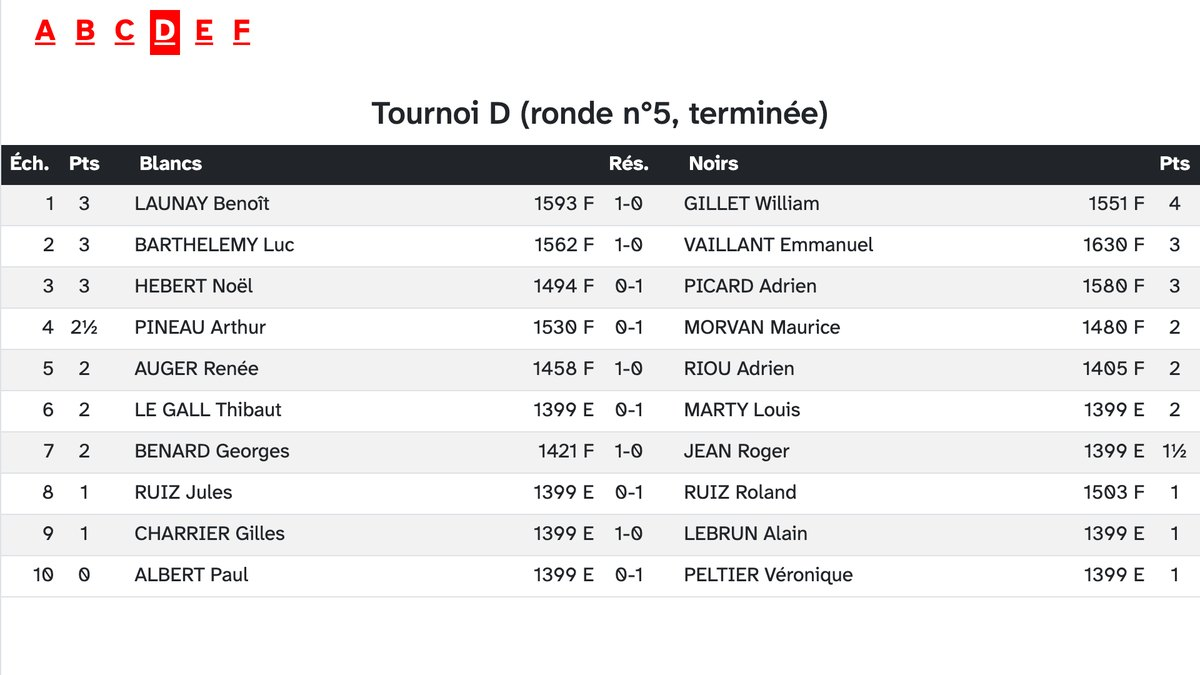
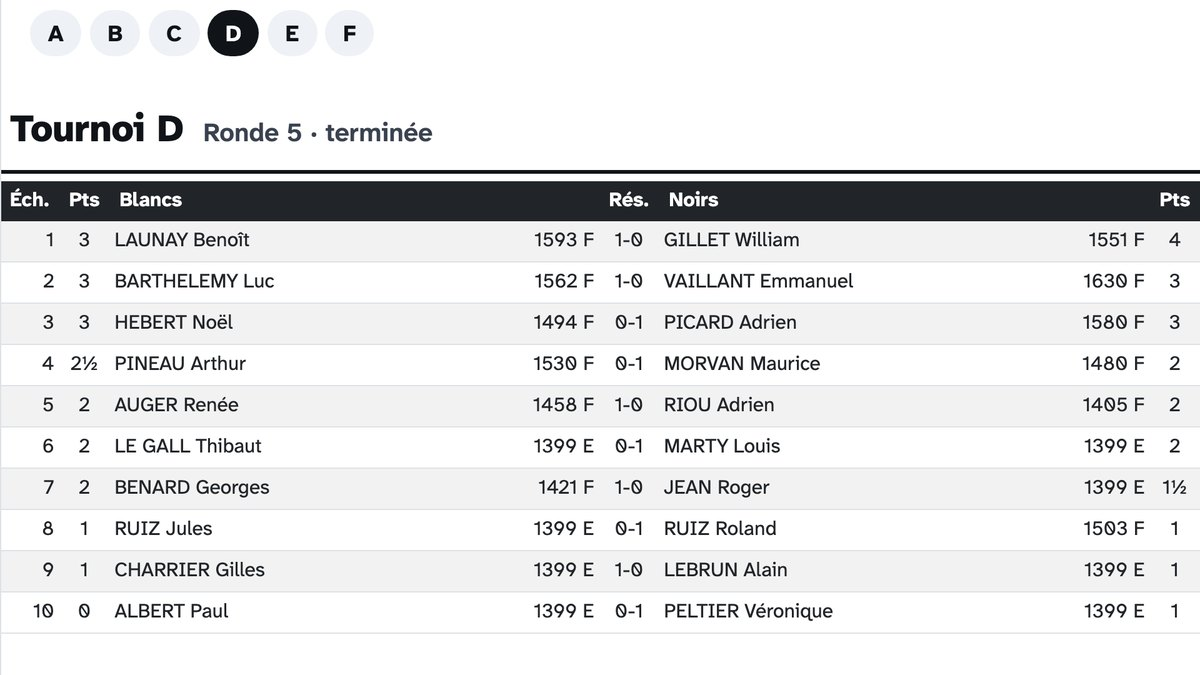
Retake the client screen screenshots and describe the fixed timer colours
The screenshots of the client screens (pairings by board with a menu, pairings by player of two tournaments, the pairings by player multi-screen and the home page's pairings by board) are retaken in the redesigned screens, in English and French: left-aligned set titles with the round on the same line, rounded menu tabs and white or black squares beside the boards.

The timers page explains that a timer is green, then orange, then red, and that only the delays can be changed. The alert message is described as a yellow band that scrolls only when the message is too long to fit.

Retake the client screenshots with the menu tab text centred

The menu tabs of the client screens now centre their text on its capitals, so the screenshots that show them are taken again, in English and French.

diff --git a/docs/screens/timers.fr.md b/docs/screens/timers.fr.md
@@ -17,12 +17,14 @@ Les **Écrans simples** et les **Écrans multiples** prennent en charge l’affi
 
 Pour créer un nouveau chronomètre, rendez-vous sur la page **Chronomètres** et cliquez sur le bouton **Créer un chronomètre**.
 
-Chaque chronomètre comporte **trois phases**, chacune associée à une durée et à une couleur :
+Chaque chronomètre passe par **trois phases**, réglées par trois délais :
 
-- **Couleur #1** (verte par défaut) est affichée jusqu’à atteindre le premier seuil — par défaut _15 minutes_ avant l’heure prévue. À partir de ce moment, le chronomètre passe progressivement vers la **Couleur #2**.
-- **Couleur #2** (orange par défaut) est utilisée pendant la seconde phase — à partir de _5 minutes_ avant l’heure cible — et passe progressivement vers la **Couleur #3**.
-- **Couleur #3** (rouge par défaut) est affichée une fois l’heure prévue atteinte, et reste active pendant _10 minutes_ par défaut.
-  Après ce délai, le chronomètre passe automatiquement à la prochaine heure programmée dans la liste, et revient à la **Couleur #1**.
+- Le chronomètre est **vert** jusqu’au premier délai avant l’heure prévue — par défaut _15 minutes_. À partir de ce moment, il passe progressivement à l’**orange**.
+- Il est **orange** à partir du second délai avant l’heure prévue — par défaut _5 minutes_ — et passe progressivement au **rouge**.
+- Il est **rouge** une fois l’heure prévue atteinte, et le reste pendant le troisième délai — par défaut _10 minutes_.
+  Après ce délai, le chronomètre passe automatiquement à la prochaine heure programmée dans la liste, et redevient vert.
+
+Les couleurs sont les mêmes sur tous les écrans et ne peuvent pas être modifiées. Les délais par défaut de l’évènement se modifient avec le bouton de paramètres de la page **Chronomètres**.
 
 Une fois les paramètres du chronomètre validés, vous pourrez définir un planning avec des dates et heures spécifiques pour déclencher chaque phase.
 

diff --git a/docs/screens/timers.en.md b/docs/screens/timers.en.md
@@ -17,12 +17,14 @@ Single Screens and Multi-Screens support displaying a countdown timer — useful
 
 To create a new timer, go to the **Timers** page and click the **Create a Timer** button.
 
-Each timer includes **three phases**, each with its own delay and color:
+Each timer goes through **three phases**, set by three delays:
 
-- **Color #1** (green by default) is displayed until the first delay threshold is reached — _15 minutes_ by default before the scheduled time. From that point, the timer transitions gradually toward **Color #2**.
-- **Color #2** (orange by default) is then used during the second phase — starting _5 minutes_ by default before the target time — and transitions toward **Color #3**.
-- **Color #3** (red by default) is shown once the target time is reached and remains active for _10 minutes_ by default.
-  After this period, the timer automatically rolls forward to the next scheduled time in the set and reverts to **Color #1**.
+- The timer is **green** until the first delay before the scheduled time — _15 minutes_ by default. From that point, it turns gradually **orange**.
+- It is **orange** from the second delay before the scheduled time — _5 minutes_ by default — and turns gradually **red**.
+- It is **red** once the scheduled time is reached, and stays red for the third delay — _10 minutes_ by default.
+  After this period, the timer automatically rolls forward to the next scheduled time in the set and turns green again.
+
+The colours are the same on every screen and cannot be changed. The default delays of the event can be changed with the settings button of the **Timers** page.
 
 After confirming the timer's parameters, you’ll be able to define a schedule of specific date/time entries to associate with the timer.
 

diff --git a/docs/screens/single-screens.fr.md b/docs/screens/single-screens.fr.md
@@ -38,7 +38,7 @@ C’est particulièrement utile si vous avez légèrement trop de joueur·euses 
 
 ### Message d’alerte
 
-Un message d’alerte défilant peut s’avérer très utile, surtout lorsqu’il est projeté sur grand écran.
+Un message d’alerte, affiché dans un bandeau jaune en bas de l’écran, peut s’avérer très utile, surtout lorsqu’il est projeté sur grand écran. Un message trop long pour tenir dans le bandeau y défile.
 Par exemple : *« Les joueur·euses X et Y sont prié·es de saisir leurs résultats. »*
 
 Ce message peut être défini au **niveau de l’événement**, ce qui signifie qu’il sera affiché sur tous les écrans liés à cet événement, mais vous pouvez aussi le personnaliser individuellement pour chaque écran.

diff --git a/docs/screens/single-screens.en.md b/docs/screens/single-screens.en.md
@@ -37,7 +37,7 @@ This is particularly helpful when you have just slightly too many players to fit
 
 ### Alert Message
 
-A scrolling alert message can be a powerful tool, especially when projecting on a large screen.
+An alert message, shown in a yellow band along the bottom of the screen, can be a powerful tool, especially when projecting on a large screen. A message too long to fit scrolls across the band.
 For example: *“Would players X and Y please enter their results!”*
 
 This message can be set at the **event level**, which means it appears across all screens for that event, but you can also override it on a **per-screen** basis here.
